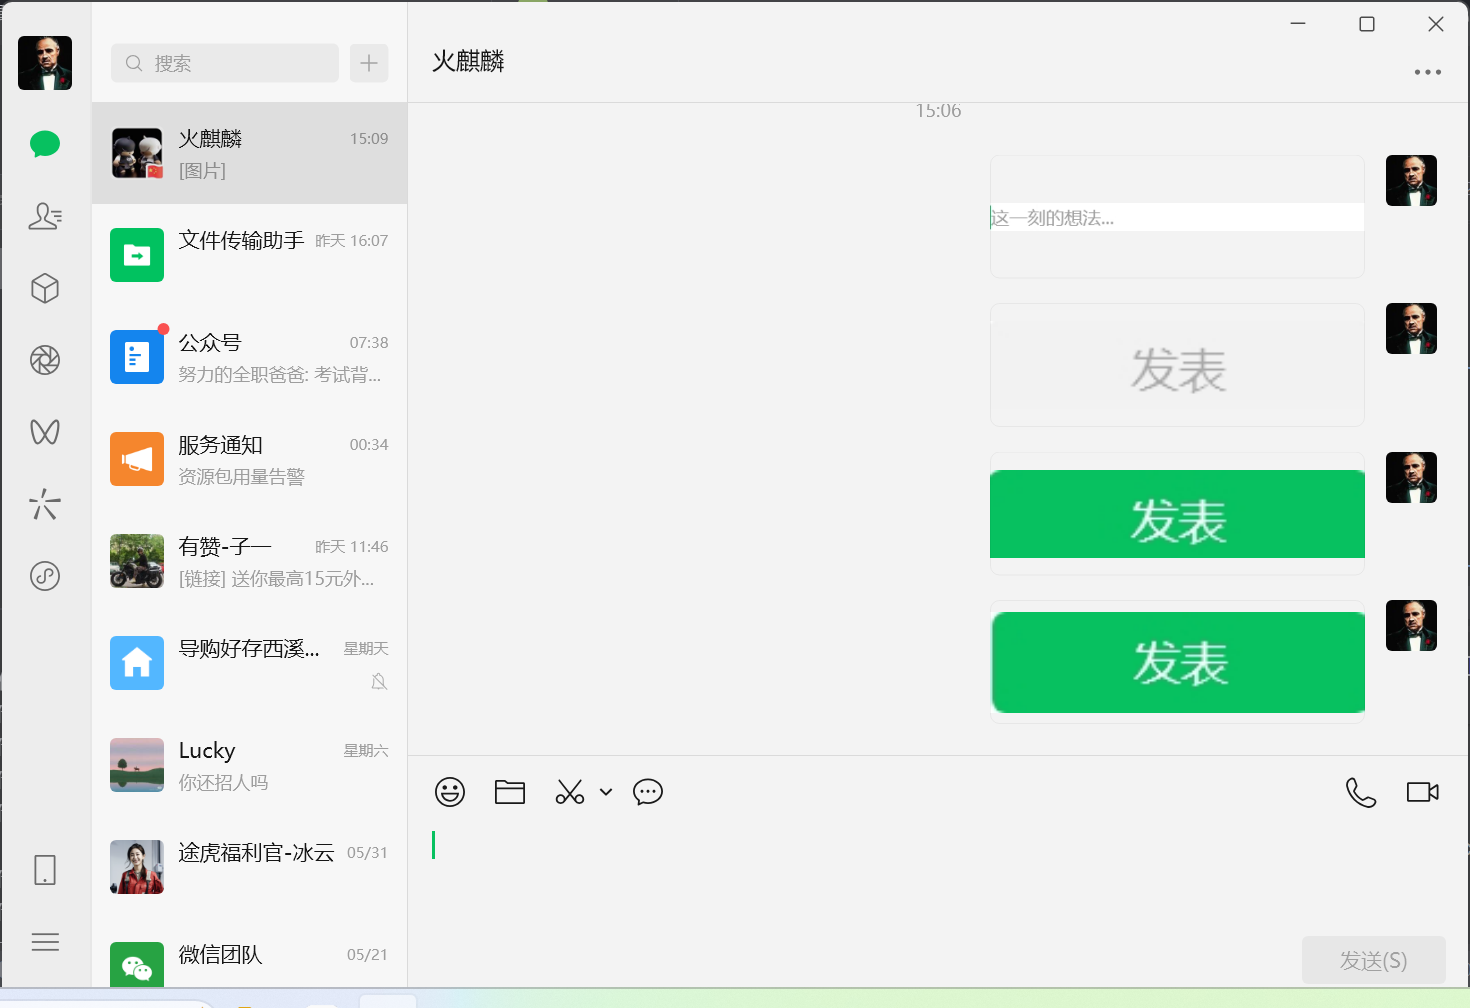
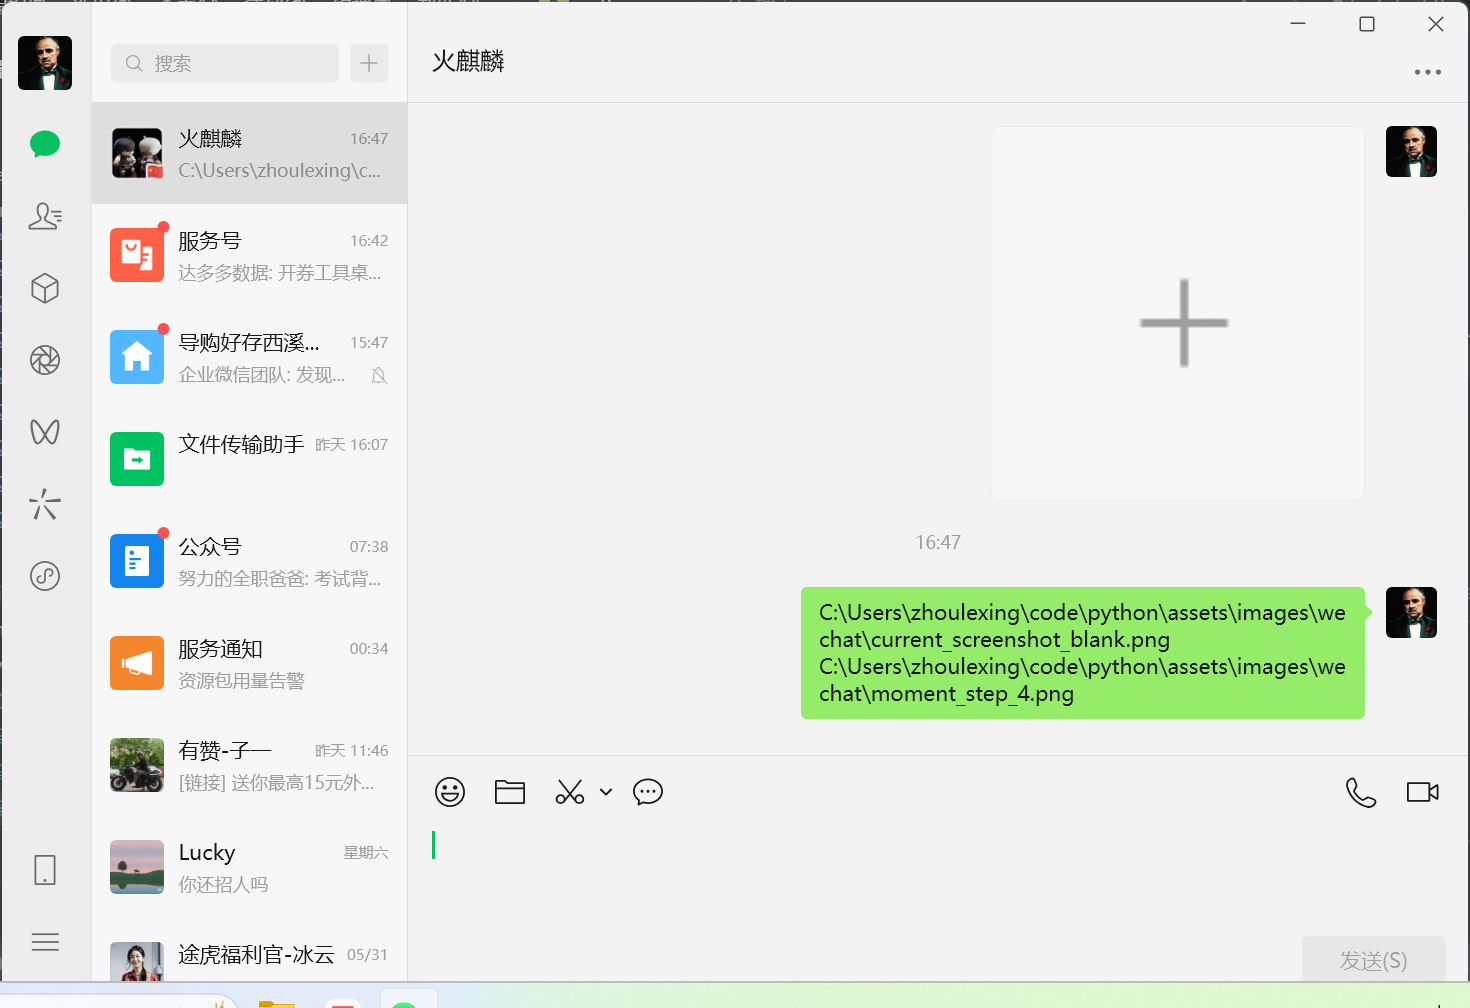
fix: 更新代码

diff --git a/projects/wechat/index.py b/projects/wechat/index.py
@@ -1,4 +1,4 @@
-from gui import WeChatGui
+from .gui import WeChatGui
 import time
 import pyautogui
 
@@ -35,7 +35,7 @@ class WeChat:
 
         # 5. 进入朋友圈
         self.wechat_gui.click_by_image("assets/images/wechat/current_wechat_screenshot.png",
-                                       "assets/images/wechat/moment_step_1.png", 0.7, relative=True, rect=self.wechat_rect)
+                                       "assets/images/wechat/moment_step_1.png", 0.7, relative=True, rect=self.wechat_gui.wechat_rect)
         # 6. 查找朋友圈窗口
         self.wechat_gui.find_moment_window()
         # 7. 将朋友圈窗口置于前台，并等待加载
@@ -67,7 +67,7 @@ class WeChat:
         time.sleep(1)
         self.wechat_gui.select_images_from_dialog([
             "C:/Users/zhoulexing/code/python/assets/images/wechat/current_screenshot_blank.png",
-            "C:/Users/zhoulexing/code/python/assets/images/wechat/moment_step_4.png"
+            "C:/Users/zhoulexing/code/python/assets/images/wechat/moment_step_3.png"
         ])
 
         # # 13. 点击发送按钮
@@ -76,3 +76,7 @@ class WeChat:
         # )
         # self.wechat_gui.click_by_image("assets/images/wechat/current_moment_screenshot.png",
         #                                "assets/images/wechat/moment_step_4.png", 0.7, relative=True, rect=self.wechat_gui.moment_rect)
+
+if (__name__ == "__main__"):
+    wechat = WeChat()
+    wechat.start()

diff --git a/README.md b/README.md
@@ -12,3 +12,8 @@
 # 学习资源
 
 # 学习成果
+
+
+
+C:\Users\zhoulexing\code\python\assets\images\wechat\current_screenshot_blank.png
+C:\Users\zhoulexing\code\python\assets\images\wechat\moment_step_4.png
